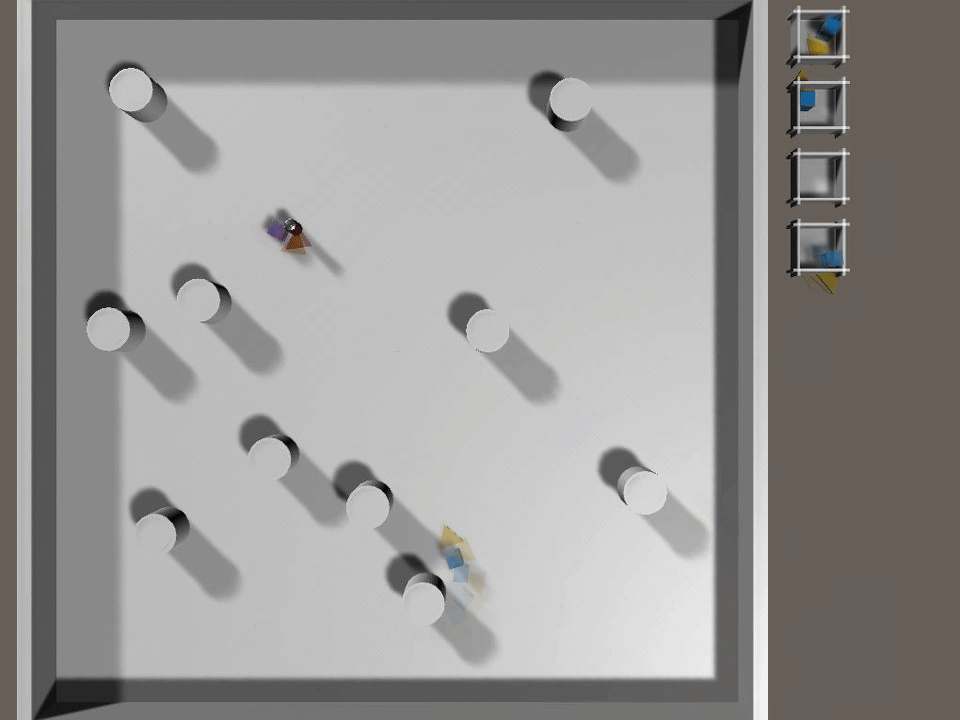
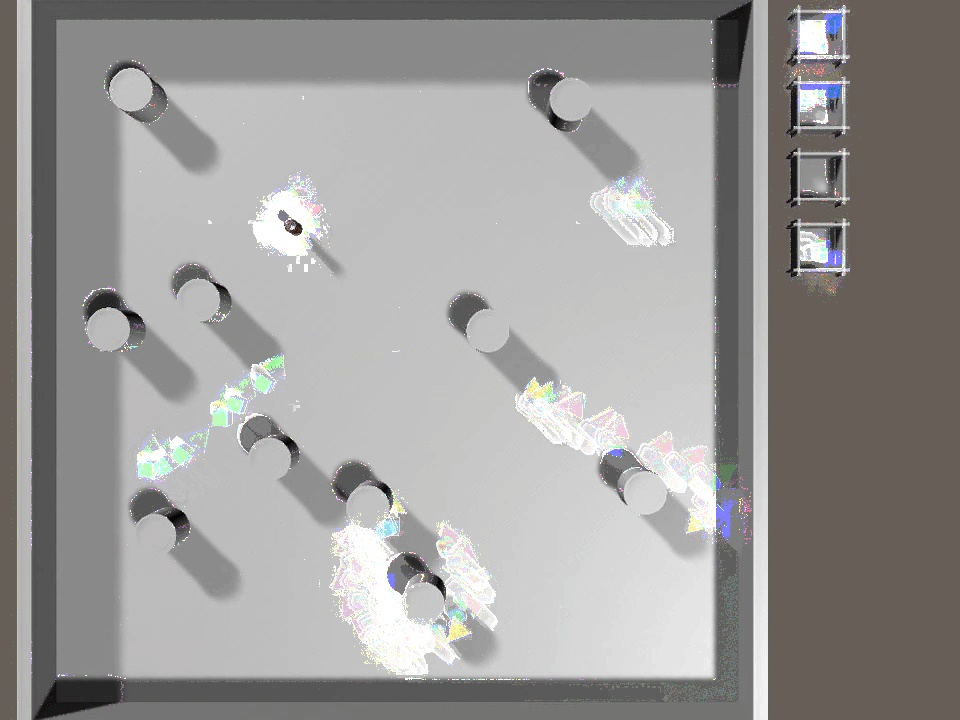
一旦完成

diff --git a/main.py b/main.py
@@ -28,11 +28,11 @@ while True:
         #height, width = img_sum.shape[:2]
         #img_sum_rgba[0:height, 0:width] += img_src_rgba
 
-        cv2.imshow("Frame", img_sum_rgba)
+    cv2.imshow("Frame", img_sum)
     key = cv2.waitKey(30)
     if key == 27:
         break
 
-#cv2.imwrite('hoge.jpg', img_sum)
+cv2.imwrite('hoge.jpg', img_sum)
 cap.release()
 cv2.destroyAllWindows()
